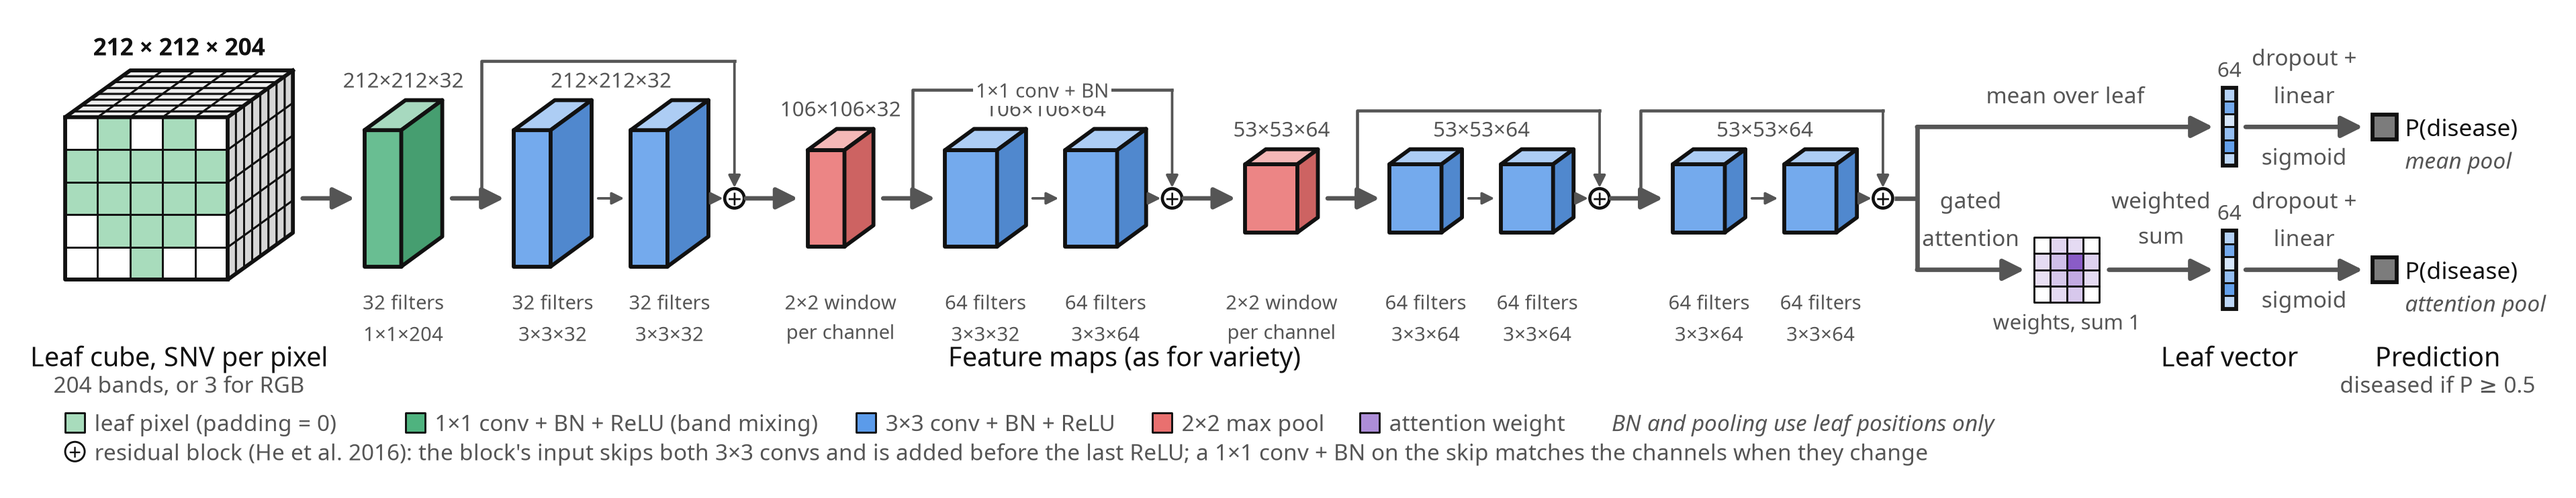
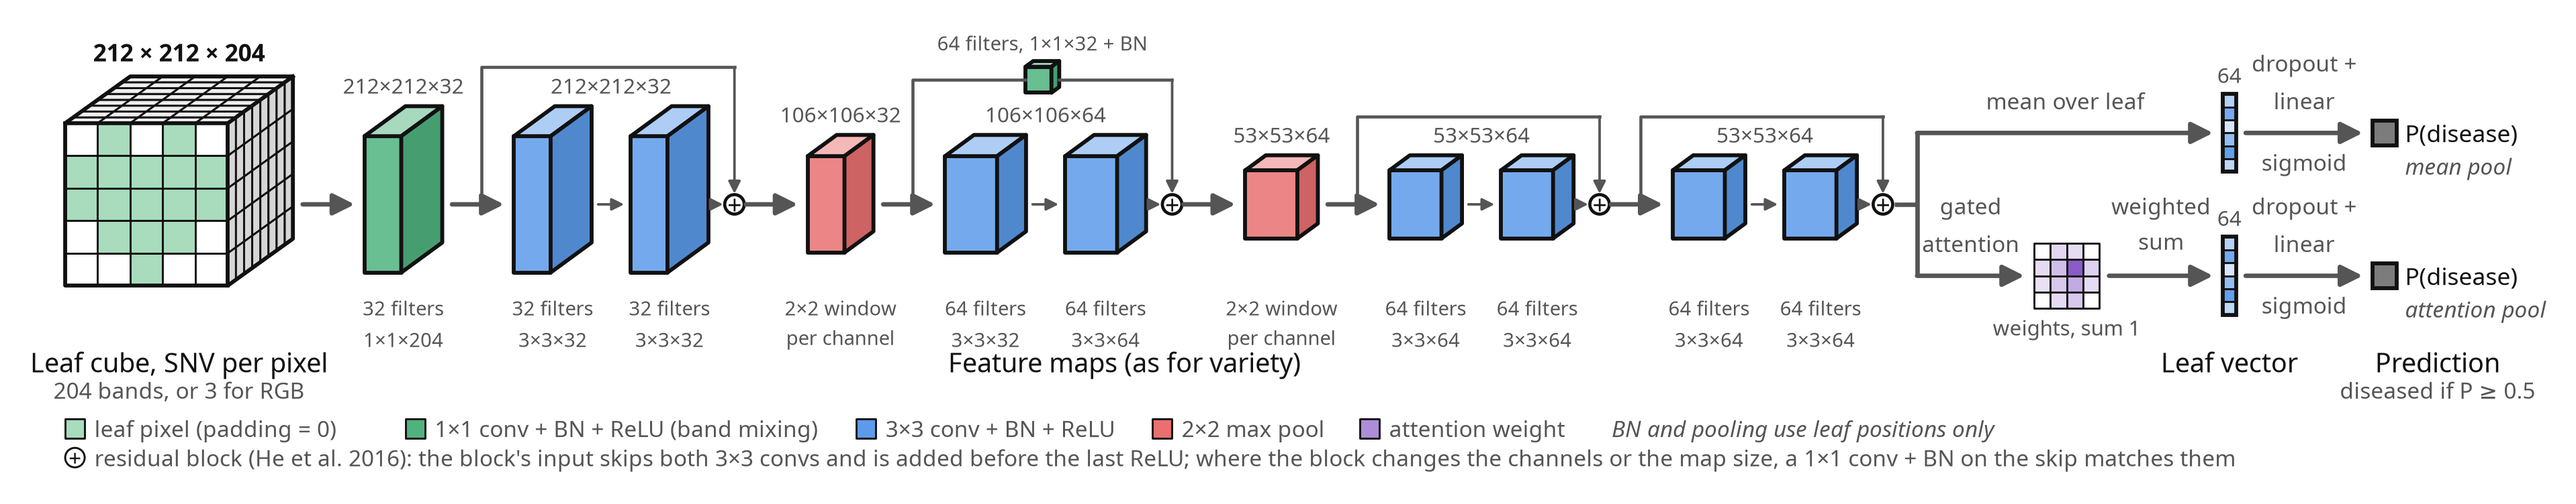
feat: diagrams for the no-max-pool small ResNet and ResNet-18; skip convs drawn as boxes
- The 1x1 conv + BN on a residual skip is now a small box on the skip line,
  labelled with its filters (and stride), instead of a text label.
- Each block's map size sits on its two maps, under the skip line, so it no
  longer reads as an operation on the skip.
- Stride-2 blocks, ResNet-18's 7x7 stride-2 conv and 3x3 stride-2 max pool
  can be drawn; the legend lists only the operations a figure uses.
- The disease scripts draw every non-default backbone, each on its own
  canvas (224 for ResNet-18), at the small CNN's scale.

The small-CNN figures are unchanged.

Claude-Session: https://claude.ai/code/session_01XZkxtybYRusJEjZD74SUiD

diff --git a/helpers/diagram.py b/helpers/diagram.py
@@ -349,10 +349,15 @@ def caption(ax, x: float, y: float, text: str) -> None:
 
 # ---- CNN architecture figures ---------------------------------------------------
 # One colour per operation; a box is coloured by the operation that made it.
-OP_COLOR = {"1×1 conv": "#4fb37f", "3×3 conv": "#5b9bea", "max pool": "#e9706f"}
-OP_LEGEND = {"1×1 conv": "1×1 conv + BN + ReLU (band mixing)",
+OP_COLOR = {"7×7 conv": "#2f8f8a", "1×1 conv": "#4fb37f", "3×3 conv": "#5b9bea", "3×3 max pool": "#e9706f",
+            "max pool": "#e9706f"}
+# Legend text per operation, in legend order; a figure lists only the operations it draws.
+OP_LEGEND = {"7×7 conv": "7×7 conv, stride 2 + BN + ReLU",
+             "1×1 conv": "1×1 conv + BN + ReLU (band mixing)",
              "3×3 conv": "3×3 conv + BN + ReLU",
+             "3×3 max pool": "3×3 max pool, stride 2",
              "max pool": "2×2 max pool"}
+SKIP_LEGEND = "1×1 conv + BN (on a skip)"   # the green box on a skip, when no band-mixing conv is drawn
 LEAF_GREEN = "#a8dcbc"
 # Leaf mask drawn on the input cube's front face (row 0 at the bottom): 1 = leaf, 0 = padding.
 LEAF_MASK = [[0, 0, 1, 0, 0],
@@ -369,7 +374,8 @@ FILTER_LABEL_H = 0.9  # drawn height of a two-line 7 pt filter label
 SKIP_GAP = 1.2  # arrow between the two 3×3 convs of a residual block
 ADD_R = 0.3     # radius of the drawn + where a residual block adds its input back
 RESIDUAL_NOTE = ("residual block (He et al. 2016): the block's input skips both 3×3 convs and is added before the "
-                 "last ReLU; a 1×1 conv + BN on the skip matches the channels when they change")
+                 "last ReLU; where the block changes the channels or the map size, a 1×1 conv + BN on the skip "
+                 "matches them")
 
 
 def backbone_stages(widths: tuple, canvas: int) -> list[tuple[str, int, int]]:
@@ -390,28 +396,51 @@ def backbone_stages(widths: tuple, canvas: int) -> list[tuple[str, int, int]]:
 
 
 def resnet_stages(net, canvas: int) -> list[tuple]:
-    """List the feature maps of a SmallResNet (helpers/backbones.py), in the order of its forward.
+    """List the feature maps of a residual backbone (helpers/backbones.py), in the order of its forward.
 
-    :param net: A SmallResNet: a 1×1 band-mixing conv (spec), then stage1–stage3 of basic
-        blocks with a 2×2 max-pool before stage2 and stage3.
-    :type net: helpers.backbones.SmallResNet
+    :param net: A SmallResNet or SmallResNetStrided (a 1×1 band-mixing conv, then stage1–stage3),
+        or a ResNet18 (a 7×7 stride-2 conv and a 3×3 stride-2 max pool, then layer1–layer4). A
+        2×2 max pool sits between stages unless the next stage's first block has stride 2.
+    :type net: torch.nn.Module
     :param canvas: Canvas side S in pixels.
     :type canvas: int
     :return: (operation, channels, map side) per feature map; a residual block is
-        ("block", channels, map side, whether its skip has a 1×1 conv).
+        ("block", channels, map side after it, whether its skip has a 1×1 conv, stride).
     :rtype: list[tuple]
     """
-    s, c = canvas, net.spec.out_channels
-    out = [("1×1 conv", c, s)]
-    for i, stage in enumerate((net.stage1, net.stage2, net.stage3)):
-        if i:
+    if hasattr(net, "layer1"):
+        c, s = net.conv1.out_channels, canvas // 2
+        out = [("7×7 conv", c, s), ("3×3 max pool", c, s // 2)]
+        s //= 2
+        stages = (net.layer1, net.layer2, net.layer3, net.layer4)
+    else:
+        c, s = net.spec.out_channels, canvas
+        out = [("1×1 conv", c, s)]
+        stages = (net.stage1, net.stage2, net.stage3)
+    for i, stage in enumerate(stages):
+        if i and stage[0].stride == 1:
             s //= 2
             out.append(("max pool", c, s))
         for block in stage:
-            assert block.stride == 1, "the drawing assumes blocks keep the map size"
+            s //= block.stride
             c = block.conv1.out_channels
-            out.append(("block", c, s, block.down is not None))
+            out.append(("block", c, s, block.down is not None, block.stride))
     return out
+
+
+def op_legend(stages: list) -> list[tuple]:
+    """Legend swatches for the operations a figure draws, in OP_LEGEND order.
+
+    :param stages: Output of :func:`backbone_stages` or :func:`resnet_stages`.
+    :type stages: list
+    :return: (colour, text) pairs.
+    :rtype: list[tuple]
+    """
+    ops = {"3×3 conv" if st[0] == "block" else st[0] for st in stages}
+    items = [(OP_COLOR[op], text) for op, text in OP_LEGEND.items() if op in ops]
+    if "1×1 conv" not in ops and any(st[0] == "block" and st[3] for st in stages):
+        items.append((OP_COLOR["1×1 conv"], SKIP_LEGEND))
+    return items
 
 
 def residual_block(ax, x: float, yc: float, stage: tuple, c_in: int, canvas: int, gap: float,
@@ -428,7 +457,7 @@ def residual_block(ax, x: float, yc: float, stage: tuple, c_in: int, canvas: int
     :type x: float
     :param yc: Centre line of the drawing.
     :type yc: float
-    :param stage: ("block", channels, map side, skip has a 1×1 conv).
+    :param stage: ("block", channels, map side after the block, skip has a 1×1 conv, stride of its first conv).
     :type stage: tuple
     :param c_in: Channels coming into the block.
     :type c_in: int
@@ -441,17 +470,18 @@ def residual_block(ax, x: float, yc: float, stage: tuple, c_in: int, canvas: int
     :return: x for the tail of the next arrow.
     :rtype: float
     """
-    _op, c, s, proj = stage
+    _op, c, s, proj, stride = stage
     h = H_MAX * (s / canvas) ** 0.5
     w = W_PER_CH * c ** 0.5
     span = w + h * DEPTH_X                     # drawn width of one box, depth included
     x1 = x + gap
-    x2 = x1 + span + SKIP_GAP
+    # A stride-2 first conv has a longer filter label ("…, stride 2"), so its block spreads out.
+    x2 = x1 + span + SKIP_GAP + (1.0 if stride > 1 else 0.0)
     xa = x2 + span + 0.5 + ADD_R               # centre of the +
     top = yc + h / 2 + h * DEPTH_Y             # top of the boxes, depth included
-    for xb, depth in ((x1, c_in), (x2, c)):
+    for xb, depth, st in ((x1, c_in, stride), (x2, c, 1)):
         box(ax, xb, yc, w, h, h, OP_COLOR["3×3 conv"], DEPTH_X, DEPTH_Y)
-        ax.text(xb + span / 2, y_filters, filter_label("3×3 conv", c, depth), ha="center", va="top",
+        ax.text(xb + span / 2, y_filters, filter_label("3×3 conv", c, depth, st), ha="center", va="top",
                 fontsize=7, color=INK_2, linespacing=1.2)
     # Both maps have the same size: one label sits on them, under the skip line, so it does not
     # read as an operation on the skip.
@@ -462,12 +492,21 @@ def residual_block(ax, x: float, yc: float, stage: tuple, c_in: int, canvas: int
     ax.add_patch(Circle((xa, yc), ADD_R, facecolor="white", edgecolor=INK, lw=LW_EDGE * 0.8))
     ax.text(xa, yc, "+", ha="center", va="center", fontsize=9, color=INK)
 
-    xs, ya = x + 1.2, top + 1.2   # the skip leaves the arrow and runs above the size label
-    ax.plot([xs, xs, xa], [yc, ya, ya], color=INK_2, lw=1.1, solid_joinstyle="round")
-    arrow(ax, xa, xa, ya, size="small", y1=yc + ADD_R + 0.03)
+    # The skip leaves the incoming arrow and runs above the size label; with a 1×1 conv on it, it runs
+    # higher, through a small green box: the projected map, with its filters written above it.
+    xs, ya = x + 1.2, top + (1.7 if proj else 1.2)
     if proj:
-        ax.text((xs + xa) / 2, ya, "1×1 conv + BN", ha="center", va="center", fontsize=7, color=INK_2,
-                bbox=dict(facecolor="white", edgecolor="none", pad=1.0))
+        bw, bh, bd = W_PER_CH * c ** 0.5 * 0.5, 0.8, 0.8
+        bx = (xs + xa) / 2 - (bw + bd * DEPTH_X) / 2
+        ax.plot([xs, xs, bx], [yc, ya, ya], color=INK_2, lw=1.1, solid_joinstyle="round")
+        ax.plot([bx + bw + bd * DEPTH_X, xa], [ya, ya], color=INK_2, lw=1.1)
+        box(ax, bx, ya, bw, bh, bd, OP_COLOR["1×1 conv"], DEPTH_X, DEPTH_Y)
+        label = f"{c} filters, 1×1×{c_in}" + (f", stride {stride}" if stride > 1 else "") + " + BN"
+        ax.text(bx + (bw + bd * DEPTH_X) / 2, ya + bh / 2 + bd * DEPTH_Y + 0.15, label, ha="center", va="bottom",
+                fontsize=7, color=INK_2)
+    else:
+        ax.plot([xs, xs, xa], [yc, ya, ya], color=INK_2, lw=1.1, solid_joinstyle="round")
+    arrow(ax, xa, xa, ya, size="small", y1=yc + ADD_R + 0.03)
     return xa + ADD_R - 0.25
 
 
@@ -545,7 +584,7 @@ def draw_backbone(ax, stages: list, canvas: int, n_bands: int, yc: float,
             "bottom": y_filters - FILTER_LABEL_H}
 
 
-def filter_label(op: str, c_out: int, c_in: int) -> str:
+def filter_label(op: str, c_out: int, c_in: int, stride: int = 1) -> str:
     """Text under a feature map: how many filters made it and the shape of each one.
 
     A k×k conv filter spans every incoming channel, so it is k × k × c_in; its depth is the
@@ -558,13 +597,18 @@ def filter_label(op: str, c_out: int, c_in: int) -> str:
     :type c_out: int
     :param c_in: Channels coming in (= filter depth).
     :type c_in: int
+    :param stride: The conv's stride; 2 is written after the filter shape (the 7×7 conv always has it).
+    :type stride: int
     :return: Two-line label.
     :rtype: str
     """
     if op == "max pool":
         return "2×2 window\nper channel"
+    if op == "3×3 max pool":
+        return "3×3 window\nstride 2"
     k = op.split("×")[0]
-    return f"{c_out} filters\n{k}×{k}×{c_in}"
+    stride = 2 if op == "7×7 conv" else stride
+    return f"{c_out} filters\n{k}×{k}×{c_in}" + (f", stride {stride}" if stride > 1 else "")
 
 
 def vector_cells(n: int = 8) -> list:
@@ -669,7 +713,7 @@ def fig_disease_cnn(r: dict, path, header: bool = True) -> float:
     attention_map(ax, xa, y_dn)
     ax.text(xa + 1.0, y_dn - 1.15, "weights, sum 1", ha="center", va="top", fontsize=7.5,
             color=INK_2)
-    xv = xa + 2.0 + 3.8
+    xv = xa + 2.0 + 3.8 + (0.5 if r["pooled"] >= 100 else 0.0)   # room for a 3-digit vector width
     arrow(ax, xa + 2.3, xv - 0.3, y_dn, "weighted\nsum", fontsize=8)
 
     # Mean branch: every interior leaf position gets the same weight.
@@ -697,14 +741,13 @@ def fig_disease_cnn(r: dict, path, header: bool = True) -> float:
     caption(ax, (c0 + c1) / 2, y_cap, "Leaf cube, SNV per pixel")
     ax.text((c0 + c1) / 2, y_cap - 0.95, r["cube_note"], ha="center", va="top", fontsize=8,
             color=INK_2)
-    caption(ax, sum(b["boxes"]) / 2, y_cap, "Feature maps (as for variety)")
+    caption(ax, sum(b["boxes"]) / 2, y_cap, r.get("maps_caption", "Feature maps (as for variety)"))
     caption(ax, xv + VEC_S / 2, y_cap, "Leaf vector")
     caption(ax, xo + 2.0, y_cap, "Prediction")
     ax.text(xo + 2.0, y_cap - 0.95, "diseased if P ≥ 0.5", ha="center", va="top", fontsize=8,
             color=INK_2)
 
-    items = [(LEAF_GREEN, "leaf pixel (padding = 0)")] + \
-        [(OP_COLOR[op], text) for op, text in OP_LEGEND.items()] + \
+    items = [(LEAF_GREEN, "leaf pixel (padding = 0)")] + op_legend(r["stages"]) + \
         [(shade(ATTN_COLOR, 0.3), "attention weight")]
     x_end = legend(ax, 0.0, -3.7, items)
     ax.text(x_end, -3.7, "BN and pooling use leaf positions only", ha="left", va="center",

diff --git a/disease_classification/cnn/plot_architecture.py b/disease_classification/cnn/plot_architecture.py
@@ -17,12 +17,12 @@ ROOT = HERE.parents[1]
 for p in (ROOT, HERE.parent / "logistic_regression", HERE):
     if str(p) not in sys.path:
         sys.path.insert(0, str(p))
-from helpers.backbones import BACKBONES  # noqa: E402
+from helpers.backbones import BACKBONES, DEFAULT_BACKBONE, LABEL  # noqa: E402
 from helpers.diagram import backbone_stages, fig_disease_cnn, resnet_stages  # noqa: E402
 from helpers.log import get_logger  # noqa: E402
 from logistic_regression import POOLS, load_meta, variety_label  # noqa: E402
-from model import SECOND_BACKBONE, WIDTHS  # noqa: E402
-from train import CANVAS  # noqa: E402
+from model import WIDTHS  # noqa: E402
+from train import CANVAS, canvas_for  # noqa: E402
 
 FIG = HERE / "figures"
 N_BANDS = 204
@@ -32,28 +32,31 @@ def compute() -> dict:
     """Collect the sizes and labels the figure shows.
 
     :return: canvas, input bands, backbone stages, pooled width, header and cube note;
-        "second": the same for SECOND_BACKBONE (a SmallResNet), or None.
+        "others": {backbone: the same for each residual backbone in helpers/backbones.py}.
     :rtype: dict
     """
     pools = ", or ".join(f"{len(load_meta(p))} leaves of {variety_label(p)}" for p in POOLS)
     r = {"canvas": CANVAS, "n_bands": N_BANDS, "stages": backbone_stages(WIDTHS, CANVAS),
          "pooled": WIDTHS[-1], "header": f"One CNN for pooled varieties: {pools}",
-         "cube_note": f"{N_BANDS} bands, or 3 for RGB", "second": None}
-    if SECOND_BACKBONE:
-        net = BACKBONES[SECOND_BACKBONE](N_BANDS)
-        r["second"] = {**r, "stages": resnet_stages(net, CANVAS), "pooled": net.out_channels,
-                       "header": f"One small ResNet for pooled varieties: {pools}"}
+         "cube_note": f"{N_BANDS} bands, or 3 for RGB", "others": {}}
+    for bb, cls in BACKBONES.items():
+        if bb == DEFAULT_BACKBONE:
+            continue
+        net, canvas = cls(N_BANDS), canvas_for(bb)
+        r["others"][bb] = {**r, "canvas": canvas, "stages": resnet_stages(net, canvas), "pooled": net.out_channels,
+                           "header": f"One {LABEL[bb]} for pooled varieties: {pools}",
+                           "maps_caption": "Feature maps (as for variety)" if bb == "small_resnet" else "Feature maps"}
     return r
 
 
 def main() -> None:
-    """Write figures/architecture.png and, at the same scale, figures/architecture_<SECOND_BACKBONE>.png."""
+    """Write figures/architecture.png and, at the same scale, figures/architecture_<backbone>.png for the others."""
     FIG.mkdir(exist_ok=True)
     log = get_logger("plot_architecture")
     r = compute()
     ipu = fig_disease_cnn(r, FIG / "architecture.png")
-    if r["second"]:
-        fig_disease_cnn({**r["second"], "ipu": ipu}, FIG / f"architecture_{SECOND_BACKBONE}.png")
+    for bb, rb in r["others"].items():
+        fig_disease_cnn({**rb, "ipu": ipu}, FIG / f"architecture_{bb}.png")
     log.info("[saved] figures/architecture*.png")
 
 

diff --git a/disease_classification/within_variety_disease_cnn/plot_architecture.py b/disease_classification/within_variety_disease_cnn/plot_architecture.py
@@ -17,13 +17,13 @@ ROOT = HERE.parents[1]
 for p in (ROOT, HERE.parent / "logistic_regression", HERE.parent / "cnn"):
     if str(p) not in sys.path:
         sys.path.insert(0, str(p))
-from helpers.backbones import BACKBONES  # noqa: E402
+from helpers.backbones import BACKBONES, DEFAULT_BACKBONE  # noqa: E402
 from helpers.diagram import backbone_stages, fig_disease_cnn, resnet_stages  # noqa: E402
 from helpers.log import get_logger  # noqa: E402
 from logistic_regression import load_meta  # noqa: E402
-from model import SECOND_BACKBONE, WIDTHS  # noqa: E402
+from model import WIDTHS  # noqa: E402
 from run_within_variety import WITHIN  # noqa: E402
-from train import CANVAS  # noqa: E402
+from train import CANVAS, canvas_for  # noqa: E402
 
 FIG = HERE / "figures"
 N_BANDS = 204
@@ -33,27 +33,30 @@ def compute() -> dict:
     """Collect the sizes and labels the figure shows.
 
     :return: canvas, input bands, backbone stages, pooled width, header and cube note;
-        "second": the same for SECOND_BACKBONE (a SmallResNet), or None.
+        "others": {backbone: the same for each residual backbone in helpers/backbones.py}.
     :rtype: dict
     """
     counts = ", ".join(f"{v} {len(load_meta(v))}" for v in WITHIN)
     r = {"canvas": CANVAS, "n_bands": N_BANDS, "stages": backbone_stages(WIDTHS, CANVAS),
          "pooled": WIDTHS[-1], "header": f"One CNN per variety, trained on its own leaves ({counts})",
-         "cube_note": f"{N_BANDS} bands, or 3 for RGB", "second": None}
-    if SECOND_BACKBONE:
-        net = BACKBONES[SECOND_BACKBONE](N_BANDS)
-        r["second"] = {**r, "stages": resnet_stages(net, CANVAS), "pooled": net.out_channels}
+         "cube_note": f"{N_BANDS} bands, or 3 for RGB", "others": {}}
+    for bb, cls in BACKBONES.items():
+        if bb == DEFAULT_BACKBONE:
+            continue
+        net, canvas = cls(N_BANDS), canvas_for(bb)
+        r["others"][bb] = {**r, "canvas": canvas, "stages": resnet_stages(net, canvas), "pooled": net.out_channels,
+                           "maps_caption": "Feature maps (as for variety)" if bb == "small_resnet" else "Feature maps"}
     return r
 
 
 def main() -> None:
-    """Write figures/architecture.png and, at the same scale, figures/architecture_<SECOND_BACKBONE>.png."""
+    """Write figures/architecture.png and, at the same scale, figures/architecture_<backbone>.png for the others."""
     FIG.mkdir(exist_ok=True)
     log = get_logger("plot_architecture")
     r = compute()
     ipu = fig_disease_cnn(r, FIG / "architecture.png", header=False)
-    if r["second"]:
-        fig_disease_cnn({**r["second"], "ipu": ipu}, FIG / f"architecture_{SECOND_BACKBONE}.png", header=False)
+    for bb, rb in r["others"].items():
+        fig_disease_cnn({**rb, "ipu": ipu}, FIG / f"architecture_{bb}.png", header=False)
     log.info("[saved] figures/architecture*.png")
 
 

diff --git a/variety_classification/cnn/plot_architecture.py b/variety_classification/cnn/plot_architecture.py
@@ -18,8 +18,8 @@ matplotlib.use("Agg")
 HERE = Path(__file__).resolve().parent
 sys.path.insert(0, str(HERE.parents[1]))
 from helpers.backbones import BACKBONES  # noqa: E402
-from helpers.diagram import (INK, INK_2, LEAF_GREEN, OP_COLOR, OP_LEGEND, arrow, backbone_stages,  # noqa: E402
-                             caption, column, draw_backbone, legend, match_scale, new_axes, resnet_stages,
+from helpers.diagram import (INK, INK_2, LEAF_GREEN, arrow, backbone_stages, caption, column,  # noqa: E402
+                             draw_backbone, legend, match_scale, new_axes, op_legend, resnet_stages,
                              residual_note, save, shade, vector_cells)
 from helpers.log import get_logger  # noqa: E402
 from model import N_VARIETIES, SECOND_BACKBONE, WIDTHS  # noqa: E402
@@ -89,8 +89,7 @@ def fig_architecture(r: dict) -> tuple[Path, float]:
     caption(ax, xv + 0.27, y_cap, "Leaf vector")
     caption(ax, xo + s + 1.3, y_cap, "Variety")
 
-    items = [(LEAF_GREEN, "leaf pixel (padding = 0)")] + \
-        [(OP_COLOR[op], text) for op, text in OP_LEGEND.items()]
+    items = [(LEAF_GREEN, "leaf pixel (padding = 0)")] + op_legend(r["stages"])
     x_end = legend(ax, 0.0, -4.2, items)
     ax.text(x_end, -4.2, "BN and pooling use leaf positions only", ha="left", va="center",
             fontsize=8, color=INK_2, style="italic")

diff --git a/disease_classification/within_variety_disease_cnn/README.md b/disease_classification/within_variety_disease_cnn/README.md
@@ -10,7 +10,7 @@ pooling, 3 seeds, balanced accuracy at P ≥ 0.5); these scripts only loop over 
 |---|---|
 | `run_within_variety.py` | trains each variety's task × pooling × seed × fold; skips folds already saved; writes `logs/<run>.log` |
 | `report_within_variety.py` | `final_report.md`, `metrics.md` and figures for each variety |
-| `plot_architecture.py` | poster schematics of the network → `figures/architecture.png` (small CNN) and `figures/architecture_small_resnet.png`, drawn at the same scale |
+| `plot_architecture.py` | poster schematics of the network → `figures/architecture.png` (small CNN) and `figures/architecture_<backbone>.png` for each other backbone, drawn at the same scale |
 | `results/<variety>[_rgb]/` | `final_report.md` (balanced accuracy, both backbones), `metrics.md` (every metric), `config.json`, saved test and validation predictions per fold |
 | `results/<variety>[_rgb]_<backbone>/` | another backbone's runs, with its own `final_report.md` and `metrics.md`; its rows also sit in the default folder's reports |
 | `figures/<variety>[_rgb]/` | `balanced_accuracy.png`, `attention_maps.png` |

diff --git a/disease_classification/cnn/README.md b/disease_classification/cnn/README.md
@@ -10,7 +10,7 @@ training code here are also used by `../within_variety_disease_cnn/`.
 | `train.py` | SNV per pixel, rotations and flips, training one fold (early stopping on the validation row); `CANVAS = 212` |
 | `run_experiments.py` | trains every task × pooling × seed × fold of one pool; skips folds already saved; writes `logs/<run>.log` |
 | `report.py` | `final_report.md`, `metrics.md` and figures for one run |
-| `plot_architecture.py` | poster schematics of the network → `figures/architecture.png` (small CNN) and `figures/architecture_small_resnet.png`, drawn at the same scale |
+| `plot_architecture.py` | poster schematics of the network → `figures/architecture.png` (small CNN) and `figures/architecture_<backbone>.png` for each other backbone, drawn at the same scale |
 | `results/<run>/` | `final_report.md` (balanced accuracy; the default run's report also has the second backbone's rows), `metrics.md` (every metric), `config.json`, saved test and validation predictions per fold |
 | `figures/<run>/` | `balanced_accuracy.png`, `attention_maps.png` |
 
